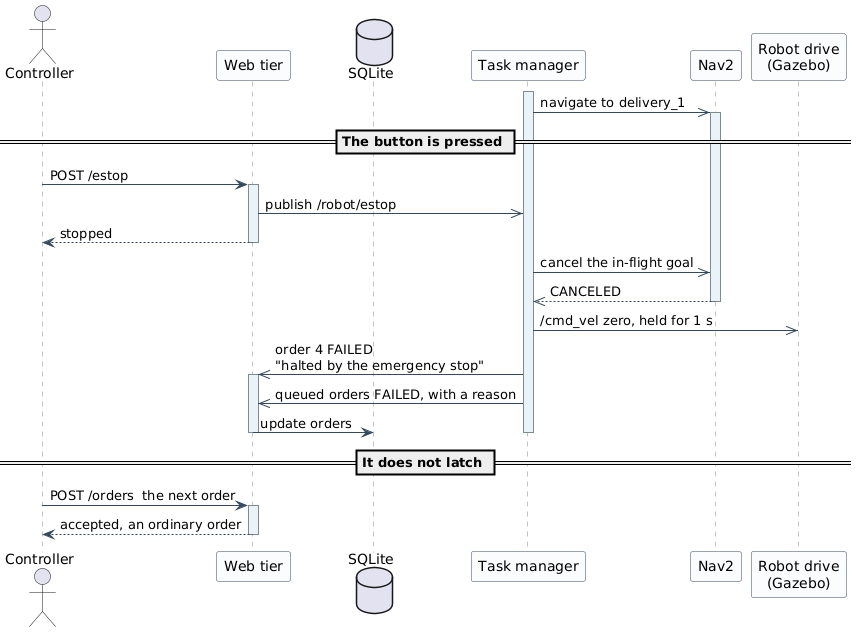
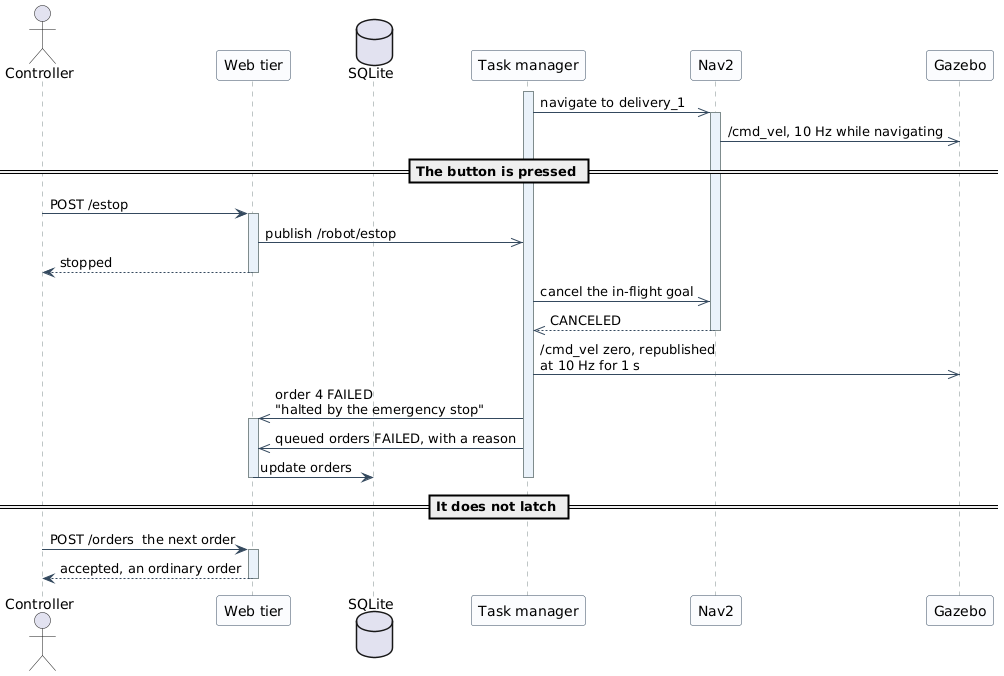
Show the navigation stack driving the robot, not just receiving a goal
Both scenarios showed the task manager sending a destination to Nav2 and Nav2
answering SUCCEEDED, with nothing in between. The robot got from one place to
another by implication. That left the velocity topic unexplained until the
emergency stop suddenly wrote to it, so the stop's zero appeared to come from
nowhere.

Nav2 now visibly publishes /cmd_vel at ten hertz for the length of each journey.
Two consequences become readable that were not before. In the normal case, the
task manager sends WHERE and the navigation stack decides HOW - it is Nav2, not
the task manager, that drives. In the stop, there are now two publishers on one
topic, which is exactly why the halt is republished at the same rate for a
second rather than sent once: a single zero would be overwritten by Nav2's next
command before the cancellation had taken effect.

The simulator goes back to being one participant called Gazebo. Naming it for
the component that acts stopped working once Nav2 also drove it: the same
lifeline receives velocities and publishes poses, and the message labels already
say which is which. The C3 diagram keeps its two named Gazebo components,
because there the point IS which source of truth is being consulted.

diff --git a/report/RoboFetch_Software_Engineering_Report.tex b/report/RoboFetch_Software_Engineering_Report.tex
@@ -1336,8 +1336,10 @@ they cover the three outcomes an order can have: it is delivered, it is never st
 stopped.
 
 \uploadedfigure{Figures/03-sequence-order-success.png}{0.98\textwidth}
-{Scenario 1: a controller places an order and it is delivered. The decision is taken before
-anything is stored, and the outcome is decided by reading the parcel's real position rather than by
+{Scenario 1: a controller places an order and it is delivered. The task manager sends a
+destination, not a velocity: the navigation stack decides how to get there and drives the robot
+itself, which is why it is the navigation stack and not the task manager that writes to the
+velocity topic. The decision is taken before anything is stored, and the outcome is decided by reading the parcel's real position rather than by
 the fact that every command returned success. The figures are those of order 1 of the recorded
 acceptance run.}{fig:seqsuccess}
 
@@ -1350,9 +1352,12 @@ table and the robot is never sent, so a refusal costs one preview.}{fig:seqrefus
 {Scenario 3: the operator halts a running order. Inside the task manager the stop is handled on the
 subscription callback rather than on the worker thread, because the worker is blocked waiting on
 the navigation result at exactly the moment the button is pressed; the diagram shows the component
-as one lifeline and leaves that division to the text. The web tier answers as soon as the stop has
-been published, before the robot has physically halted, because an emergency control that blocks
-until the brake has taken effect is worse than one that returns at once. Nothing is written by the
+as one lifeline and leaves that division to the text. Two publishers write to the same velocity topic, which is why the halt is
+republished rather than sent once: the navigation stack is already streaming velocity commands at
+ten hertz, and a single zero would be overwritten by the next one before the cancellation had taken
+effect. The web tier answers as soon as the stop has been published, before the robot has
+physically halted, because an emergency control that blocks until the wheels have stopped is worse
+than one that returns at once. Nothing is written by the
 stop itself, so it does not survive a logout and the next order is an ordinary
 one.}{fig:seqestop}
 
